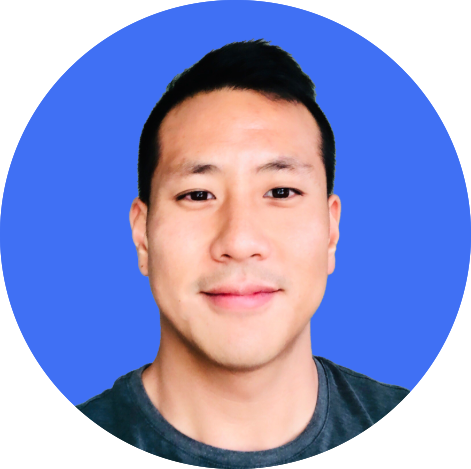
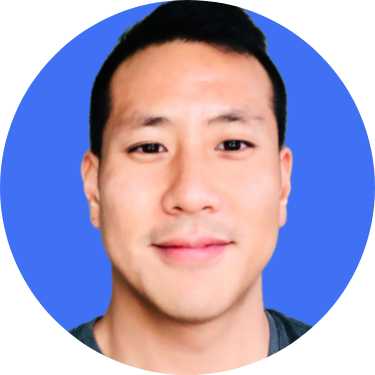
updating

diff --git a/public/css/style.css b/public/css/style.css
@@ -21,6 +21,9 @@
   --fs-h2: 2.25rem;
   --fs-h3: 1.25rem;
   --fs-body: 1rem;
+
+  --bs: 0.25em 0.25em 0.75em rgba(0, 0, 0, 0.25),
+    0.125em 0.125em 0.25em rgba(0, 0, 0, 0.5);
 }
 
 @media (min-width: 800px) {
@@ -111,6 +114,11 @@ nav {
   position: relative;
 }
 
+.intro__img {
+  box-shadow: var(--bs);
+  border-radius: 50%;
+}
+
 @media (min-width: 600px) {
   .intro {
     display: grid;
@@ -128,6 +136,7 @@ nav {
     min-width: 250px;
     position: relative;
     z-index: 2;
+    border-radius: 50%;
   }
 
   .section__subtitle--intro {
